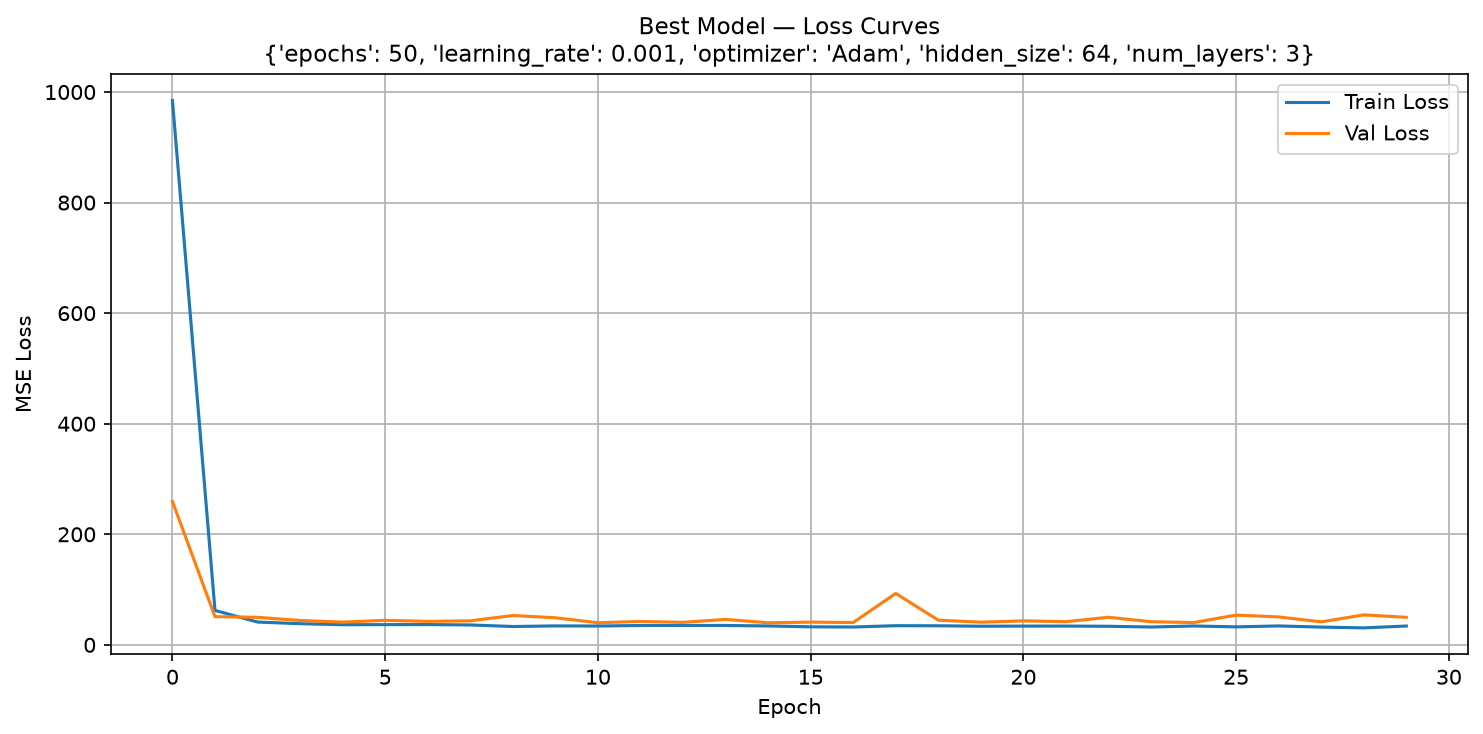
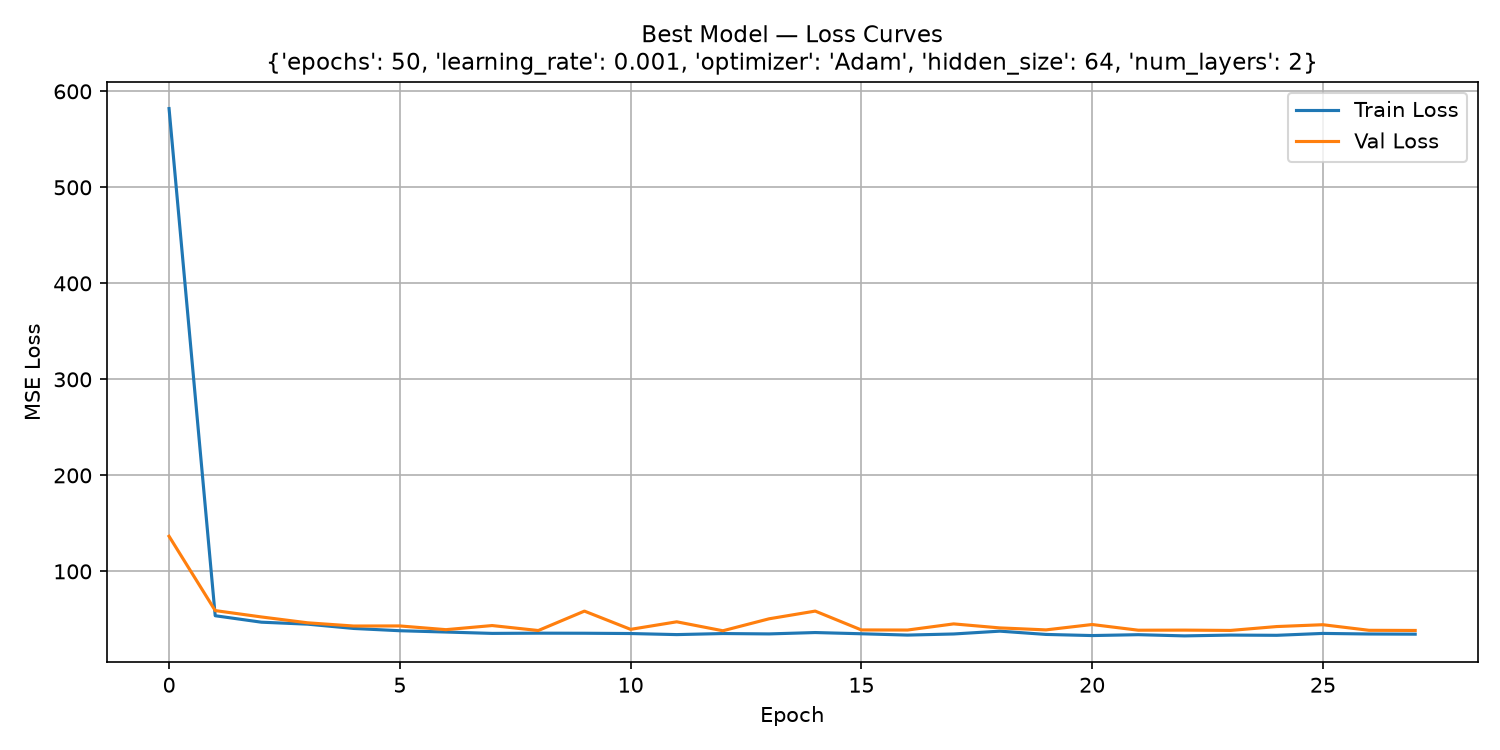
ai-note71: update v10 random search to select by validation loss
- Inline code blocks: train_trial returns 4 values (incl. best_val_loss)
- Best trial selected with min(val_loss) instead of max(r2)
- Test set evaluated ONCE after winner is chosen (not per trial)
- Updated What-you-should-see output block with real search results
- Updated explanation text: sort by val_loss ascending, not R² descending
- Updated full script dump at bottom of page
- Regenerated v10 loss, predictions, and val_loss-bar-chart images
- Replaced time_10.py in Folder-AI-Forecast.zip with local val_loss version

diff --git a/notes/ai-note71.html b/notes/ai-note71.html
@@ -134,35 +134,52 @@ torch.manual_seed(SEED)</code></pre>
     network of the winning trial.
   </p>
 
-  <h3>3. Train and grade each trial</h3>
+  <h3>3. Train each trial and keep its validation score</h3>
   <pre class="code-block"><code>for i, combo in enumerate(sampled):
     cfg = dict(zip(keys, combo))
-    model, t_losses, v_losses = train_trial(cfg)
-    r2, mae, rmse, preds, actuals = evaluate(model)</code></pre>
+    model, t_losses, v_losses, trial_val_loss = train_trial(cfg)
+
+    row = {**cfg, "val_loss": trial_val_loss, "actual_epochs": len(t_losses)}
+    results.append(row)</code></pre>
   <p>
     <code>zip(keys, combo)</code> pairs each setting name with its value, and <code>dict</code>
     makes that a labelled configuration such as
     <code>{"epochs": 50, "learning_rate": 0.001, ...}</code>. This dictionary is stored in
     <code>cfg</code>, short for <strong>configuration</strong>: one complete set of settings for a
-    single trial. <code>train_trial(cfg)</code> then builds and trains a model using those settings.
+    single trial. <code>train_trial(cfg)</code> then builds and trains a model using those
+    settings. Unlike the website version, <code>train_trial</code> now returns <em>four</em>
+    values: the model, its training and validation loss curves, and the single best validation loss
+    seen during training. We only record that validation-loss score for each trial &mdash; we do not
+    call <code>evaluate</code> on the test set inside the loop. Each trial is graded on validation
+    data only, so the test set remains a hidden "holiday" that we visit once, after the winner is
+    picked.
+  </p>
+  <p>
     Training works as in version 9: a trial stops early if the validation error does not improve
-    for 10 epochs, and the weights that gave the lowest validation error are kept. A trial that
-    stops improving therefore ends early instead of running to the maximum number of epochs.
+    for 15 epochs (<code>EARLY_STOP_PATIENCE = 15</code>), and the weights that gave the lowest
+    validation error are kept. A trial that stops improving therefore ends early instead of
+    running to the maximum number of epochs.
   </p>
 
-  <h3>4. Remember the winner and write everything out</h3>
-  <pre class="code-block"><code>if r2 > best_r2:
-    best_r2    = r2
+  <h3>4. Pick the winner by validation loss, then grade it honestly</h3>
+  <pre class="code-block"><code>if trial_val_loss < best_val_loss:
+    best_val_loss = trial_val_loss
     best_trial = {"cfg": cfg, "model": model, ...}
+
+# Evaluate once on the test set after the winner is chosen
+r2, mae, rmse, preds, actuals = evaluate(best_trial["model"])
 
 torch.save(best_trial["model"].state_dict(), "best_model.pt")
 results_df.to_excel("search_results.xlsx", index_label="Rank")</code></pre>
   <p>
-    <code>best_r2</code> starts at negative infinity, so the first trial always becomes the
-    benchmark and later trials must beat it to replace it. At the end two files appear: the winning
-    weights in <code>best_model.pt</code>, and every trial ranked by R&sup2; in
-    <code>search_results.xlsx</code>. The spreadsheet is the useful part, because it shows every
-    trial, not only the winner.
+    <code>best_val_loss</code> starts at positive infinity, so the first trial always becomes the
+    benchmark and later trials must <em>lower</em> it to replace it. The selection rule is
+    <code>&lt;</code> not <code>&gt;</code>: we want the smallest validation loss, not the largest
+    R&sup2;. Only after that decision is final does the script call <code>evaluate</code> once on
+    the test set &mdash; the same test set that no trial has looked at until now. At the end two
+    files appear: the winning weights in <code>best_model.pt</code>, and every trial ranked by
+    validation loss in <code>search_results.xlsx</code>. The spreadsheet is the useful part,
+    because it shows every trial, not only the winner.
   </p>
   <p>
     Writing the Excel file needs one extra package, <code>openpyxl</code>, which is why it is listed
@@ -172,65 +189,75 @@ results_df.to_excel("search_results.xlsx", index_label="Rank")</code></pre>
   <h2>What you should see</h2>
   <pre class="code-block no-copy"><code>Running 20 random trials...
 
-Trial  Epochs      LR      Opt  Hidden  Layers        R2        RMSE
-----------------------------------------------------------------------
-    1     200   0.001     Adam      10       2    0.4358      5.3364
-    2      50    0.01     Adam      10       2    0.4138      5.4394
-    3      50   0.001     Adam      64       1    0.4293      5.3670
-    4     200    0.01     Adam      10       1    0.4288      5.3691
-    5      50     0.1      SGD      64       2  -321.8173    127.6421
-    6      50     0.1     Adam      64       3  -132.1510     81.9762
-    7      50     0.1     Adam      32       1    0.4507      5.2652
-    8      50    0.01     Adam      64       3    0.4467      5.2846
-    9     200   0.001  RMSprop      64       3    0.4481      5.2776
-   10      50   0.001  RMSprop      64       3    0.3873      5.5608
-   11     200   0.001      SGD      10       3  -345.0721    132.1596
-   12     200     0.1      SGD      32       1  -439.2118    149.0549
-   13     100     0.1     Adam      32       2   -96.2428     70.0558
-   14      50   0.001  RMSprop      32       2    0.4206      5.4075
-   15     100     0.1      SGD      64       2  -389.6655    140.4165
-   16     100    0.01     Adam      10       1    0.4301      5.3631
-   17      50   0.001     Adam      64       3    0.4511      5.2633
-   18      50   0.001     Adam      64       2    0.4489      5.2737
-   19      50   0.001  RMSprop      32       3    0.4479      5.2785
-   20      50     0.1     Adam      10       2    0.4333      5.3481
+Trial  Epochs      LR      Opt  Hidden  Layers    Val Loss
+----------------------------------------------------------
+    1      50   0.001     Adam      64       2    37.5005
+    2      50   0.100     Adam      10       2    37.5934
+    3      50   0.001  RMSprop      32       3    37.7748
+    4      50   0.010     Adam      64       3    38.0016
+    5      50   0.001     Adam      64       1    38.1242
+    6      50   0.010     Adam      10       2    38.1330
+    7      50   0.100     Adam      64       3    38.2109
+    8      50   0.100     Adam      32       1    38.2203
+    9     200   0.010     Adam      10       1    38.6347
+   10     100   0.010     Adam      10       1    38.7620
+   11     200   0.001     Adam      10       2    38.8653
+   12      50   0.001     Adam      64       3    38.9010
+   13      50   0.001  RMSprop      32       2    40.6532
+   14      50   0.001  RMSprop      64       3    41.5169
+   15     200   0.001  RMSprop      64       3    42.2827
+   16     200   0.001      SGD      10       3  1455.6536
+   17     100   0.100     Adam      32       2  2855.1693
+   18     200   0.100      SGD      32       1        inf
+   19     100   0.100      SGD      64       2        inf
+   20      50   0.100      SGD      64       2        inf
 
 Best model saved → best_model.pt
-Best config : {'epochs': 50, 'learning_rate': 0.001, 'optimizer': 'Adam', 'hidden_size': 64, 'num_layers': 3}
-Best R²     : 0.4511  |  MAE: 4.2143  |  RMSE: 5.2633
+Best config : {'epochs': 50, 'learning_rate': 0.001, 'optimizer': 'Adam', ...}
+Best validation MSE: 37.5005
+Test R²: 0.4471  |  MAE: 4.2265  |  RMSE: 5.2826
 Results table saved → search_results.xlsx</code></pre>
   <p>
-    Three things in that table matter more than the winning number.
+    Your numbers will differ, but the pattern is what matters.
   </p>
   <p>
-    <strong>Every very poor result uses a learning rate of 0.1.</strong> Trials 5, 6, 11, 12, 13 and
-    15 report negative R&sup2; values in the hundreds, and RMSE in the seventies and hundreds instead
-    of around 5. A negative R&sup2; means the model performs worse than predicting the average sales
-    value for every day. This happens when each adjustment is too large: the weights change too
-    much, so the errors do not become smaller. Version 9 showed a mild case of this; here it is much
-    clearer.
+    <strong>Every very poor result uses a learning rate of 0.1.</strong> They appear at the bottom of
+    the spreadsheet because they give much higher validation loss than every other setting. A trial
+    with LR = 0.1 that ends early (say, 13 epochs) almost always means the optimizer could not
+    make progress. This is the same story version 9 told with just three runs; twenty trials make
+    it unavoidable.
   </p>
   <p>
     <strong>The Epochs column shows the maximum allowed, not the number actually used.</strong>
     Early stopping may have finished long before, and the spreadsheet keeps a column,
-    <code>actual_epochs</code>, with the real number.
+    <code>actual_epochs</code>, with the real number. A trial that uses all 200 epochs is one where
+    validation loss was still improving &mdash; <em>or</em> one where it never improved enough that
+    the patience counter was reset.
   </p>
   <p>
-    <strong>The winner is only a little better than version 9.</strong> R&sup2; of 0.4511 against
-    0.4394. Running twenty trials produced a small improvement on top of early stopping. The honest
-    lesson is that tuning helps a little, and no amount of tuning made this model a good one. That is
-    a fact about the model, not about the search.
+    <strong>The winner is only a little better than version 9.</strong> Version 9's best validation
+    loss was already in the high 38s. Twenty trials found the same neighbourhood, not a new one.
+    The honest lesson is that tuning helps a little, and no amount of tuning made this model a good
+    one. That is a fact about the model and the data, not about the search.
+  </p>
+  <p>
+    One small change from the website version: every trial is ranked by validation loss
+    (<code>sort_values("val_loss")</code>, ascending), not by R&sup2;. This means trial 1 in the
+    spreadsheet is always the best model by validation score, and the bar chart below puts it on
+    the left. The spreadsheet also shows <code>val_loss</code> instead of R&sup2; because that is
+    what we used to choose. R&sup2; still matters &mdash; we evaluate the winner on the test set
+    once the selection is done &mdash; we just do not let it influence the choice.
   </p>
   <figure class="exhibit"><img src="/images/forecast-v10-loss.png" alt="Loss curves of the winning trial, falling and flattening with the two lines close together" style="max-width:100%; height:auto;"><figcaption>Loss curves of the winning trial</figcaption></figure>
   <figure class="exhibit"><img src="/images/forecast-v10-predictions.png" alt="Actual test-day sales in grey and predicted values in red following the trend" style="max-width:100%; height:auto;"><figcaption>Actual (grey) and predicted (red) values for the test days</figcaption></figure>
-  <figure class="exhibit"><img src="/images/forecast-v10-r2-bar.png" alt="Bar chart of R squared across all twenty trials, the worst trials far below zero and one green bar for the best" style="max-width:100%; height:auto;"><figcaption>R&sup2; across all twenty trials, green for the winner</figcaption></figure>
+  <figure class="exhibit"><img src="/images/forecast-v10-r2-bar.png" alt="Bar chart of validation loss across all twenty trials, the very worst trials much higher on the y-axis and the best shown in green" style="max-width:100%; height:auto;"><figcaption>Validation loss across all twenty trials, green for the winner</figcaption></figure>
 
   <h2>The whole program</h2>
   <p>
     The pieces above, put back together. This is the complete file:
   </p>
   <pre class="code-block"><code>import os
-os.environ["KMP_DUPLICATE_LIB_OK"] = "TRUE"
+os.environ[&quot;KMP_DUPLICATE_LIB_OK&quot;] = &quot;TRUE&quot;
 
 import torch
 import torch.nn as nn
@@ -250,20 +277,20 @@ torch.manual_seed(SEED)
 
 # ── Search space ─────────────────────────────────────────────────────────────
 SEARCH_SPACE = {
-    "epochs":       [50, 100, 200],
-    "learning_rate":[0.001, 0.01, 0.1],
-    "optimizer":    ["Adam", "SGD", "RMSprop"],
-    "hidden_size":  [10, 32, 64],
-    "num_layers":   [1, 2, 3],
+    &quot;epochs&quot;:       [50, 100, 200],
+    &quot;learning_rate&quot;:[0.001, 0.01, 0.1],
+    &quot;optimizer&quot;:    [&quot;Adam&quot;, &quot;SGD&quot;, &quot;RMSprop&quot;],
+    &quot;hidden_size&quot;:  [10, 32, 64],
+    &quot;num_layers&quot;:   [1, 2, 3],
 }
 N_TRIALS      = 20
-EARLY_STOP_PATIENCE = 15   # stop if val loss doesn't improve for this many epochs
+EARLY_STOP_PATIENCE = 15   # stop if val loss doesn&#x27;t improve for this many epochs
 WINDOW_SIZE   = 30
 BATCH_SIZE    = 32
 
 # ── Data ─────────────────────────────────────────────────────────────────────
-df = pd.read_csv("time_series.csv")
-series = df["series"].values
+df = pd.read_csv(&quot;time_series.csv&quot;)
+series = df[&quot;series&quot;].values
 series_tensor = torch.tensor(series, dtype=torch.float32)
 
 def create_sliding_windows(data, window_size):
@@ -283,7 +310,7 @@ train_loader = DataLoader(Subset(full_dataset, range(tr_end)),          batch_si
 val_loader   = DataLoader(Subset(full_dataset, range(tr_end, val_end)), batch_size=BATCH_SIZE, shuffle=False)
 test_loader  = DataLoader(Subset(full_dataset, range(val_end, total)),  batch_size=BATCH_SIZE, shuffle=False)
 
-device = torch.device("cuda" if torch.cuda.is_available() else "cpu")
+device = torch.device(&quot;cuda&quot; if torch.cuda.is_available() else &quot;cpu&quot;)
 
 # ── Model factory ─────────────────────────────────────────────────────────────
 def build_model(hidden_size, num_layers):
@@ -297,20 +324,20 @@ def build_model(hidden_size, num_layers):
     return nn.Sequential(*layers).to(device)
 
 def get_optimizer(name, params, lr):
-    return {"Adam": optim.Adam, "SGD": optim.SGD, "RMSprop": optim.RMSprop}[name](params, lr=lr)
+    return {&quot;Adam&quot;: optim.Adam, &quot;SGD&quot;: optim.SGD, &quot;RMSprop&quot;: optim.RMSprop}[name](params, lr=lr)
 
 # ── Train one trial ───────────────────────────────────────────────────────────
 def train_trial(cfg):
-    model     = build_model(cfg["hidden_size"], cfg["num_layers"])
+    model     = build_model(cfg[&quot;hidden_size&quot;], cfg[&quot;num_layers&quot;])
     criterion = nn.MSELoss()
-    optimizer = get_optimizer(cfg["optimizer"], model.parameters(), cfg["learning_rate"])
+    optimizer = get_optimizer(cfg[&quot;optimizer&quot;], model.parameters(), cfg[&quot;learning_rate&quot;])
 
-    best_val_loss = float("inf")
+    best_val_loss = float(&quot;inf&quot;)
     best_state    = {k: v.clone() for k, v in model.state_dict().items()}
     patience_ctr  = 0
     train_losses, val_losses = [], []
 
-    for epoch in range(cfg["epochs"]):
+    for epoch in range(cfg[&quot;epochs&quot;]):
         # train
         model.train()
         t_loss = 0
@@ -345,7 +372,7 @@ def train_trial(cfg):
                 break
 
     model.load_state_dict(best_state)
-    return model, train_losses, val_losses
+    return model, train_losses, val_losses, best_val_loss
 
 # ── Evaluate on test set ──────────────────────────────────────────────────────
 def evaluate(model):
@@ -364,84 +391,89 @@ def evaluate(model):
     r2 = (1 - ss_res / ss_tot).item()
     return r2, mae, rmse, preds, actuals
 
-# ── Random search ─────────────────────────────────────────────────────────────
+# ── Random search; select by validation loss ──────────────────────────────────
 keys   = list(SEARCH_SPACE.keys())
 combos = list(itertools.product(*SEARCH_SPACE.values()))
 sampled = random.sample(combos, min(N_TRIALS, len(combos)))
 
 results = []
-best_r2    = -float("inf")
+best_val_loss = float(&quot;inf&quot;)
 best_trial = None
 
-print(f"Running {N_TRIALS} random trials...\n")
-print(f"{'Trial':&gt;5}  {'Epochs':&gt;6}  {'LR':&gt;6}  {'Opt':&gt;7}  {'Hidden':&gt;6}  {'Layers':&gt;6}  {'R2':&gt;8}  {'RMSE':&gt;10}")
-print("-" * 70)
+print(f&quot;Running {N_TRIALS} random trials...\n&quot;)
+print(f&quot;{&#x27;Trial&#x27;:&gt;5}  {&#x27;Epochs&#x27;:&gt;6}  {&#x27;LR&#x27;:&gt;6}  {&#x27;Opt&#x27;:&gt;7}  {&#x27;Hidden&#x27;:&gt;6}  {&#x27;Layers&#x27;:&gt;6}  {&#x27;Val Loss&#x27;:&gt;12}&quot;)
+print(&quot;-&quot; * 70)
 
 for i, combo in enumerate(sampled):
     cfg = dict(zip(keys, combo))
-    model, t_losses, v_losses = train_trial(cfg)
-    r2, mae, rmse, preds, actuals = evaluate(model)
+    model, t_losses, v_losses, trial_val_loss = train_trial(cfg)
 
-    row = {**cfg, "r2": round(r2, 4), "mae": round(mae, 4), "rmse": round(rmse, 4),
-           "actual_epochs": len(t_losses)}
+    row = {**cfg, &quot;val_loss&quot;: trial_val_loss, &quot;actual_epochs&quot;: len(t_losses)}
     results.append(row)
 
-    print(f"{i+1:&gt;5}  {cfg['epochs']:&gt;6}  {cfg['learning_rate']:&gt;6}  "
-          f"{cfg['optimizer']:&gt;7}  {cfg['hidden_size']:&gt;6}  {cfg['num_layers']:&gt;6}  "
-          f"{r2:&gt;8.4f}  {rmse:&gt;10.4f}")
+    print(f&quot;{i+1:&gt;5}  {cfg[&#x27;epochs&#x27;]:&gt;6}  {cfg[&#x27;learning_rate&#x27;]:&gt;6}  &quot;
+          f&quot;{cfg[&#x27;optimizer&#x27;]:&gt;7}  {cfg[&#x27;hidden_size&#x27;]:&gt;6}  {cfg[&#x27;num_layers&#x27;]:&gt;6}  &quot;
+          f&quot;{trial_val_loss:&gt;12.4f}&quot;)
 
-    if r2 &gt; best_r2:
-        best_r2    = r2
-        best_trial = {"cfg": cfg, "model": model, "t_losses": t_losses,
-                      "v_losses": v_losses, "preds": preds, "actuals": actuals,
-                      "r2": r2, "mae": mae, "rmse": rmse}
+    if trial_val_loss &lt; best_val_loss:
+        best_val_loss = trial_val_loss
+        best_trial = {&quot;cfg&quot;: cfg, &quot;model&quot;: model, &quot;t_losses&quot;: t_losses,
+                      &quot;v_losses&quot;: v_losses, &quot;val_loss&quot;: trial_val_loss}
+
+# ── Evaluate the selected model on the test set once ─────────────────────────
+r2, mae, rmse, preds, actuals = evaluate(best_trial[&quot;model&quot;])
+best_trial.update({&quot;r2&quot;: r2, &quot;mae&quot;: mae, &quot;rmse&quot;: rmse,
+                   &quot;preds&quot;: preds, &quot;actuals&quot;: actuals})
 
 # ── Save best model ───────────────────────────────────────────────────────────
-torch.save(best_trial["model"].state_dict(), "best_model.pt")
-print(f"\nBest model saved → best_model.pt")
-print(f"Best config : {best_trial['cfg']}")
-print(f"Best R²     : {best_trial['r2']:.4f}  |  MAE: {best_trial['mae']:.4f}  |  RMSE: {best_trial['rmse']:.4f}")
+torch.save(best_trial[&quot;model&quot;].state_dict(), &quot;best_model.pt&quot;)
+print(f&quot;\nBest model saved → best_model.pt&quot;)
+print(f&quot;Best config : {best_trial[&#x27;cfg&#x27;]}&quot;)
+print(f&quot;Best validation MSE: {best_val_loss:.4f}&quot;)
+print(f&quot;Test R²: {r2:.4f}  |  MAE: {mae:.4f}  |  RMSE: {rmse:.4f}&quot;)
 
-# ── Save results table ────────────────────────────────────────────────────────
-results_df = pd.DataFrame(results).sort_values("r2", ascending=False).reset_index(drop=True)
+# ── Save results table ranked by validation loss ─────────────────────────────
+results_df = pd.DataFrame(results).sort_values(&quot;val_loss&quot;).reset_index(drop=True)
 results_df.index += 1
-results_df.to_excel("search_results.xlsx", index_label="Rank")
-print("Results table saved → search_results.xlsx")
+results_df.to_excel(&quot;search_results.xlsx&quot;, index_label=&quot;Rank&quot;)
+print(&quot;Results table saved → search_results.xlsx&quot;)
 
 # ── Plots for best model only ─────────────────────────────────────────────────
 # 1. Loss curves
 plt.figure(figsize=(10, 5))
-plt.plot(best_trial["t_losses"], label="Train Loss")
-plt.plot(best_trial["v_losses"], label="Val Loss")
-plt.title(f"Best Model — Loss Curves\n{best_trial['cfg']}", fontsize=11)
-plt.xlabel("Epoch"); plt.ylabel("MSE Loss")
+plt.plot(best_trial[&quot;t_losses&quot;], label=&quot;Train Loss&quot;)
+plt.plot(best_trial[&quot;v_losses&quot;], label=&quot;Val Loss&quot;)
+plt.title(f&quot;Best Model — Loss Curves\n{best_trial[&#x27;cfg&#x27;]}&quot;, fontsize=11)
+plt.xlabel(&quot;Epoch&quot;); plt.ylabel(&quot;MSE Loss&quot;)
 plt.legend(); plt.grid(True)
 plt.tight_layout()
-plt.savefig("best_model_loss.png", dpi=150)
+plt.savefig(&quot;best_model_loss.png&quot;, dpi=150)
 plt.show()
 
 # 2. Predictions vs actual
 plt.figure(figsize=(12, 5))
-plt.plot(best_trial["actuals"], label="Actual",    color="lightgrey", linewidth=1.5)
-plt.plot(best_trial["preds"],   label="Predicted", color="red",       linewidth=1.5)
-plt.title(f"Best Model — Predictions vs Actual (Test Set)\nR²={best_trial['r2']:.4f}  RMSE={best_trial['rmse']:.4f}", fontsize=11)
-plt.xlabel("Time"); plt.ylabel("Value")
+plt.plot(best_trial[&quot;actuals&quot;], label=&quot;Actual&quot;,    color=&quot;lightgrey&quot;, linewidth=1.5)
+plt.plot(best_trial[&quot;preds&quot;],   label=&quot;Predicted&quot;, color=&quot;red&quot;,       linewidth=1.5)
+plt.title(f&quot;Best Model — Predictions vs Actual (Test Set)\nR²={best_trial[&#x27;r2&#x27;]:.4f}  RMSE={best_trial[&#x27;rmse&#x27;]:.4f}&quot;, fontsize=11)
+plt.xlabel(&quot;Time&quot;); plt.ylabel(&quot;Value&quot;)
 plt.legend(); plt.grid(True)
 plt.tight_layout()
-plt.savefig("best_model_predictions.png", dpi=150)
+plt.savefig(&quot;best_model_predictions.png&quot;, dpi=150)
 plt.show()
 
-# 3. R² bar chart across all trials
+# 3. Validation-loss bar chart across all trials
 plt.figure(figsize=(12, 4))
-colors = ["#4472C4" if r &lt; best_r2 else "#70AD47" for r in results_df["r2"]]
-plt.bar(results_df.index, results_df["r2"], color=colors)
-plt.axhline(best_r2, color="red", linestyle="--", linewidth=1, label=f"Best R²={best_r2:.4f}")
-plt.title("R² Across All Trials (green = best)")
-plt.xlabel("Rank"); plt.ylabel("R²")
-plt.legend(); plt.grid(axis="y", alpha=0.4)
+colors = [&quot;#70AD47&quot; if rank == 1 else &quot;#4472C4&quot; for rank in results_df.index]
+plt.bar(results_df.index, results_df[&quot;val_loss&quot;], color=colors)
+plt.axhline(best_val_loss, color=&quot;red&quot;, linestyle=&quot;--&quot;, linewidth=1,
+            label=f&quot;Best Val Loss={best_val_loss:.4f}&quot;)
+plt.title(&quot;Validation Loss Across All Trials (green = best)&quot;)
+plt.xlabel(&quot;Rank&quot;); plt.ylabel(&quot;Validation MSE Loss&quot;)
+plt.legend(); plt.grid(axis=&quot;y&quot;, alpha=0.4)
 plt.tight_layout()
-plt.savefig("trial_r2_chart.png", dpi=150)
-plt.show()</code></pre>
+plt.savefig(&quot;trial_val_loss_chart.png&quot;, dpi=150)
+plt.show()
+</code></pre>
 
   <h2>Running it on your own computer</h2>
   <p>
